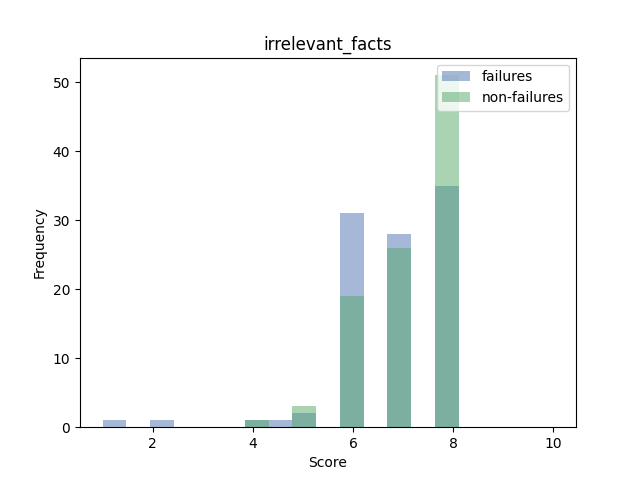
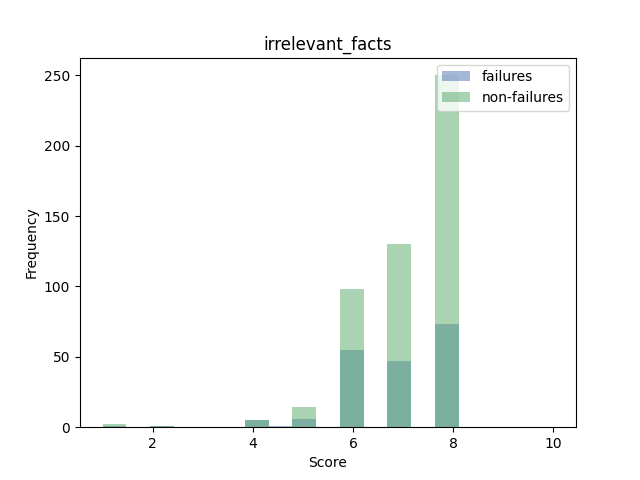
Understanding scores..

diff --git a/overlap/scripts/summarize_score_pipeline.py b/overlap/scripts/summarize_score_pipeline.py
@@ -36,8 +36,8 @@ def score_summary(document, summary, model = 'gpt-3.5-turbo'):
 scores = []
 
 base = 'summarize_failure_output/news/'
-paths = [(base + 'irrelevant_facts.txt', base + 'irrelevant_facts_nofail.txt'), (base + 'sequential_facts.txt', base + 'sequential_facts_nofail.txt'), 
-         (base + 'mini_story.txt', base + 'mini_story_nofail.txt'), (base + 'no_change.txt', base + 'no_change_nofail.txt')]
+paths = [(base + 'irrelevant_facts.txt', base + 'irrelevant_facts_nofail.txt')] #(base + 'sequential_facts.txt', base + 'sequential_facts_nofail.txt'), 
+#         (base + 'mini_story.txt', base + 'mini_story_nofail.txt'), (base + 'no_change.txt', base + 'no_change_nofail.txt')]
 
 for path, path2 in paths:
     print("Starting path: ", path)
@@ -78,7 +78,7 @@ for path, path2 in paths:
 
     print("Scoring Failures:")
 
-    for document, summary, injected_document, injected_summary in scraped_failures[:100]:
+    for document, summary, injected_document, injected_summary in scraped_failures[:500]:
         cur_score = score_summary(document, summary)
 
         if type(cur_score) == list:
@@ -90,7 +90,7 @@ for path, path2 in paths:
    
     print("Scoring Nonfailures:")
     
-    for document, summary, injected_document, injected_summary in scraped_nonfailures[:100]:
+    for document, summary, injected_document, injected_summary in scraped_nonfailures[:500]:
         cur_score = score_summary(document, summary)
 
         if type(cur_score) == list:
@@ -121,8 +121,16 @@ for path, path2 in paths:
     failure_scores_np = np.array(failure_scores)
     nonfailure_scores_np = np.array(nonfailure_scores)
 
+    with open(path[:-4] + "_failure_ranked_score.txt", 'w') as f:
+        for document, summary, injected_document, injected_summary, score in failure_datapoints:
+            f.write(f"Original Story: {document}\nOriginal Summary: {summary}\nInjected Story: {injected_document}\nInjected Summary: {injected_summary}\nScore: {score}\n")
+
+    with open(path[:-4] + "_nonfailure_ranked_score.txt", 'w') as f:
+        for document, summary, injected_document, injected_summary, score in nonfailure_datapoints:
+            f.write(f"Original Story: {document}\nOriginal Summary: {summary}\nInjected Story: {injected_document}\nInjected Summary: {injected_summary}\nScore: {score}\n")
+    
     emd = wasserstein_distance(failure_scores, nonfailure_scores)
-    b_distance = np.sum(np.sqrt((failure_scores_np / np.sum(failure_scores_np)) * (nonfailure_scores_np / np.sum(nonfailure_scores_np))))
+    #b_distance = np.sum(np.sqrt((failure_scores_np / np.sum(failure_scores_np)) * (nonfailure_scores_np / np.sum(nonfailure_scores_np))))
 
     with open(path[:-4] + "_scores.txt", 'w') as f:
         f.write(f"Failures Average score: {statistics.mean(failure_scores)}\n")   
@@ -131,11 +139,3 @@ for path, path2 in paths:
         f.write(f"Non-failures Standard Deviation: {statistics.pstdev(nonfailure_scores)}\n")
         f.write(f"Earth Movers Distance: {emd}\n")
         f.write(f"Bhattacharyya Coefficient: {b_distance}\n")
-
-    with open(path[:-4] + "_failure_ranked_score.txt", 'w') as f:
-        for document, summary, injected_document, injected_summary, score in failure_datapoints:
-            f.write(f"Original Story: {document}\nOriginal Summary: {summary}\nInjected Story: {injected_document}\nInjected Summary: {injected_summary}\nScore: {score}\n")
-
-    with open(path[:-4] + "_nonfailure_ranked_score.txt", 'w') as f:
-        for document, summary, injected_document, injected_summary, score in nonfailure_datapoints:
-            f.write(f"Original Story: {document}\nOriginal Summary: {summary}\nInjected Story: {injected_document}\nInjected Summary: {injected_summary}\nScore: {score}\n")
